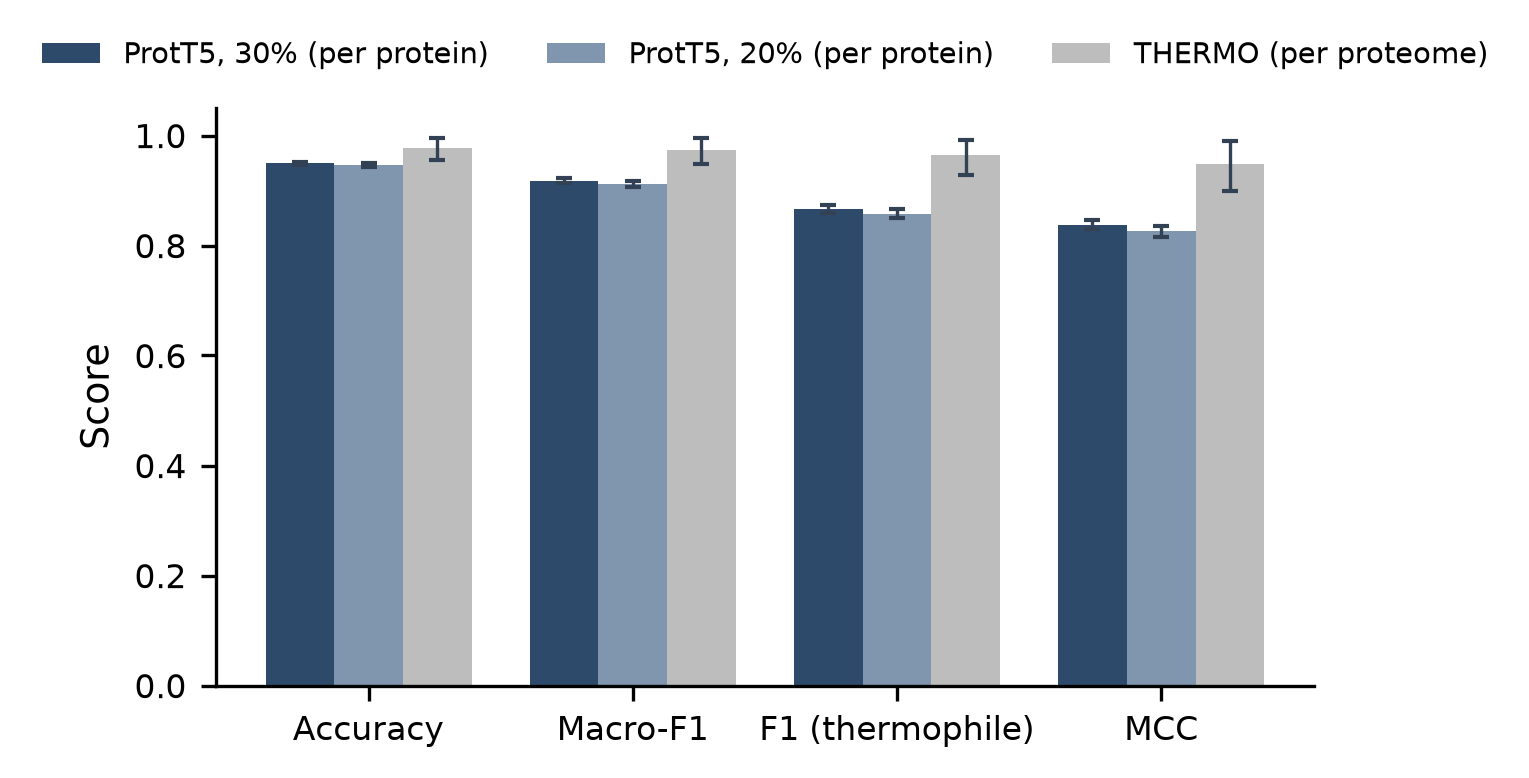
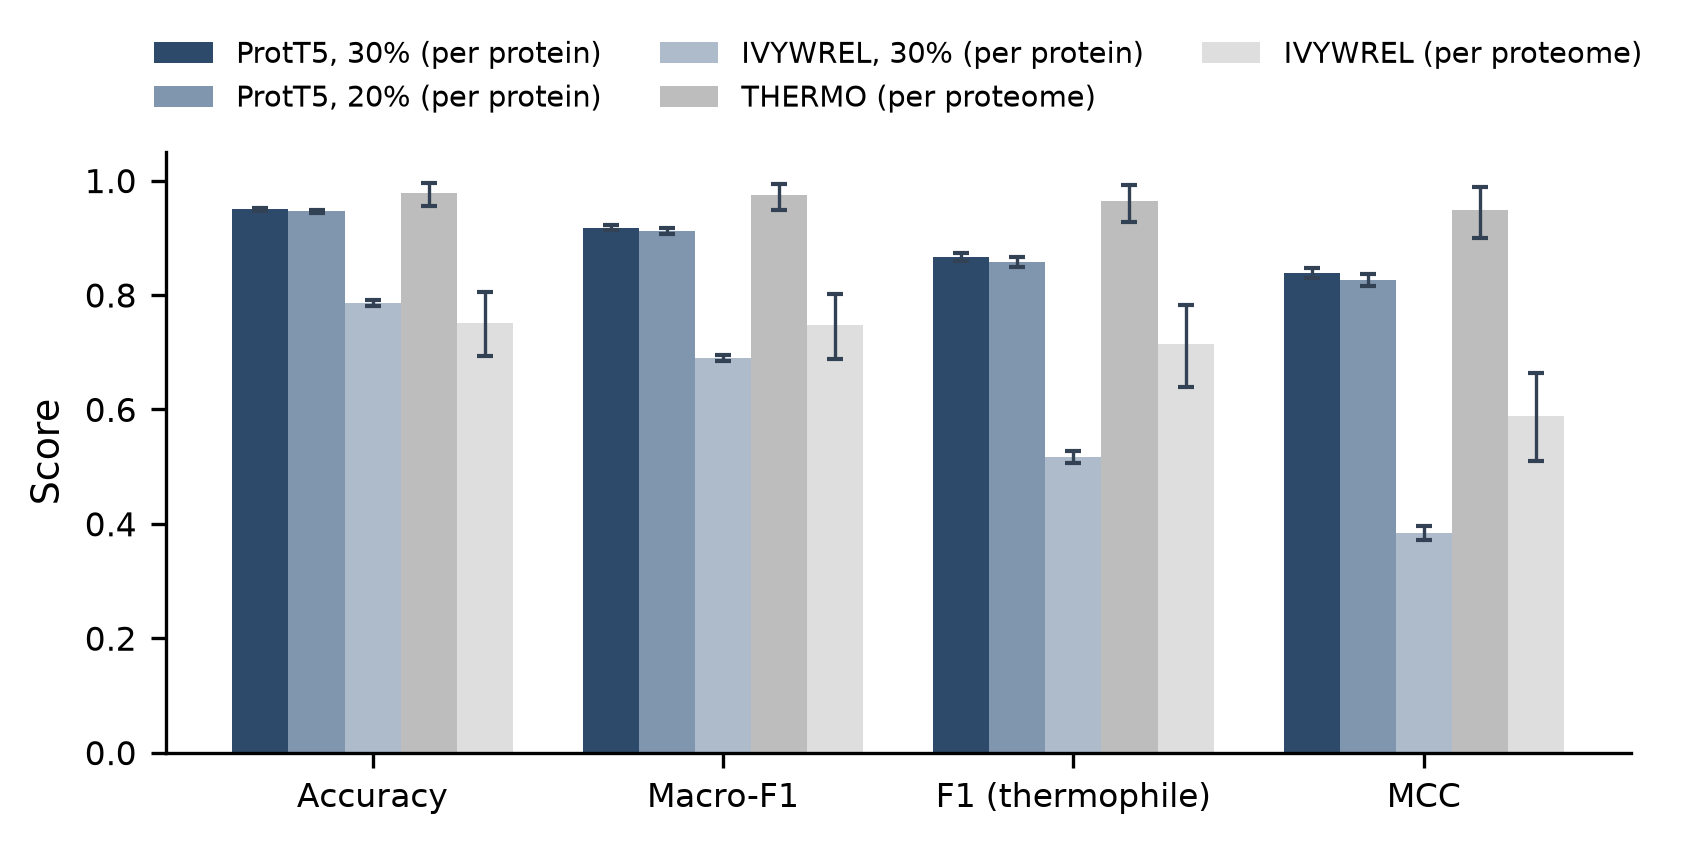
Add IVYWREL baseline to the thermophile comparison figure

diff --git a/scripts/plotting/make_thesis_figures.py b/scripts/plotting/make_thesis_figures.py
@@ -453,27 +453,31 @@ def fig_binarization():
 
 
 def fig_thermo():
-    # Binary thermophile classifier (ProtT5, per protein, 30% and 20% clustering) vs. THERMO (per proteome)
+    # Binary thermophile classifier (ProtT5, per protein, 30% and 20% clustering) vs. THERMO (per proteome), each next
+    # to the IVYWREL baseline at the same level
     thermo = json.load(open(RESULTS / "thermo_prokaryote_result.json"))["metrics"]
-    metrics = [("accuracy", "macro-f1_score", "macro_f1", "Macro-F1"), ("f1_thermophile", "f1_thermophile", "f1_thermophile", "F1 (thermophile)"),
-               ("mcc", "matthews-corr-coeff", "mcc", "MCC")]
-    fig, ax = plt.subplots(figsize=(FULL_WIDTH * 0.75, 2.5))
-    labels = ["Accuracy"] + [m[3] for m in metrics]
-    x, w = np.arange(len(labels)), 0.26
-    models = [("split1_30pct", "ProtT5, 30% (per protein)", style.MAIN),
-              ("split1_20pct", "ProtT5, 20% (per protein)", style.SECONDARY)]
+    ivywrel = json.load(open(RESULTS / "ivywrel_baseline_result.json"))
+    fig, ax = plt.subplots(figsize=(FULL_WIDTH, 2.6))
+    labels = ["Accuracy", "Macro-F1", "F1 (thermophile)", "MCC"]
     keys_own = ["accuracy", "macro-f1_score", "f1_thermophile", "matthews-corr-coeff"]
-    keys_thermo = ["accuracy", "macro_f1", "f1_thermophile", "mcc"]
-    for i, (split, name, color) in enumerate(models):
+    keys_ext = ["accuracy", "macro_f1", "f1_thermophile", "mcc"]
+    x, w = np.arange(len(labels)), 0.16
+    for i, (split, name, color) in enumerate([("split1_30pct", "ProtT5, 30% (per protein)", style.MAIN),
+                                              ("split1_20pct", "ProtT5, 20% (per protein)", style.SECONDARY)]):
         r = json.load(open(RESULTS / f"{split}_binary_result.json"))
         vals = [r["test_metrics"][k] for k in keys_own]
-        xs = x + (i - 1) * w
+        xs = x + (i - 2) * w
         ax.bar(xs, vals, w, color=color, label=name)
         error_bars(ax, xs, vals, [r["test_metrics_bootstrap"][k]["lower"] for k in keys_own],
                    [r["test_metrics_bootstrap"][k]["upper"] for k in keys_own])
-    vals = [thermo[k]["value"] for k in keys_thermo]
-    ax.bar(x + w, vals, w, color=style.BASELINE, label="THERMO (per proteome)")
-    error_bars(ax, x + w, vals, [thermo[k]["ci_lower"] for k in keys_thermo], [thermo[k]["ci_upper"] for k in keys_thermo])
+    others = [(ivywrel["per_protein"]["split1_30pct"]["metrics"], "IVYWREL, 30% (per protein)", style.RAMP[0]),
+              (thermo, "THERMO (per proteome)", style.BASELINE),
+              (ivywrel["per_proteome"]["metrics"], "IVYWREL (per proteome)", style.light(style.BASELINE))]
+    for i, (m, name, color) in enumerate(others):
+        vals = [m[k]["value"] for k in keys_ext]
+        xs = x + i * w
+        ax.bar(xs, vals, w, color=color, label=name)
+        error_bars(ax, xs, vals, [m[k]["ci_lower"] for k in keys_ext], [m[k]["ci_upper"] for k in keys_ext])
     ax.set_xticks(x, labels)
     ax.set_ylabel("Score")
     ax.set_ylim(0, 1.05)

diff --git a/scripts/evaluation/eval_ivywrel_baseline.py b/scripts/evaluation/eval_ivywrel_baseline.py
@@ -69,6 +69,7 @@ def best_threshold(fractions, labels):
 def metrics(y_true, y_pred):
     return {
         "accuracy":       accuracy_score(y_true, y_pred),
+        "macro_f1":       f1_score(y_true, y_pred, average="macro"),
         "f1_thermophile": f1_score(y_true, y_pred),
         "mcc":            matthews_corrcoef(y_true, y_pred),
     }
